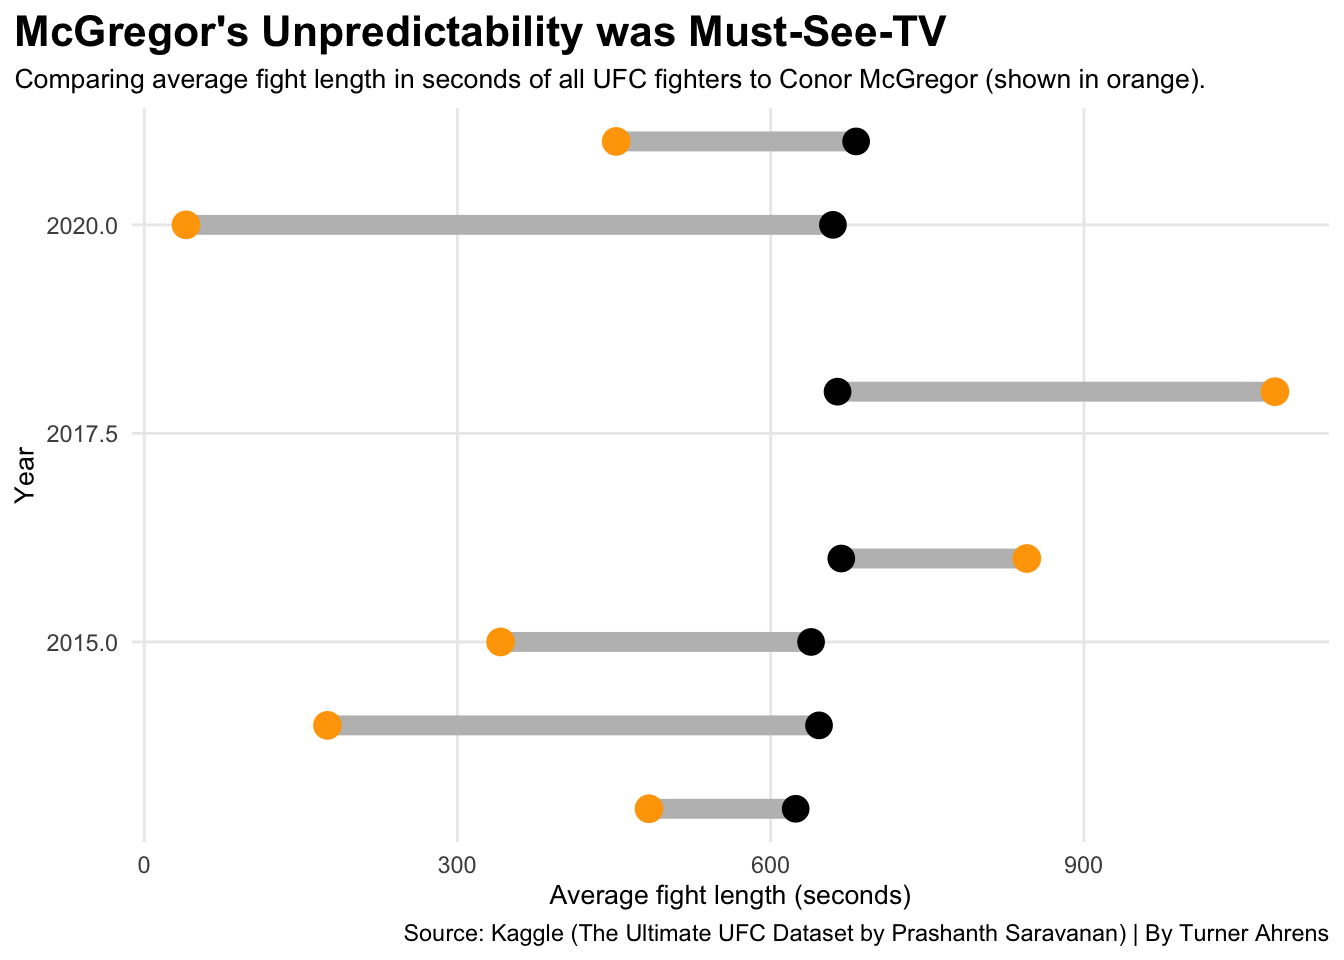
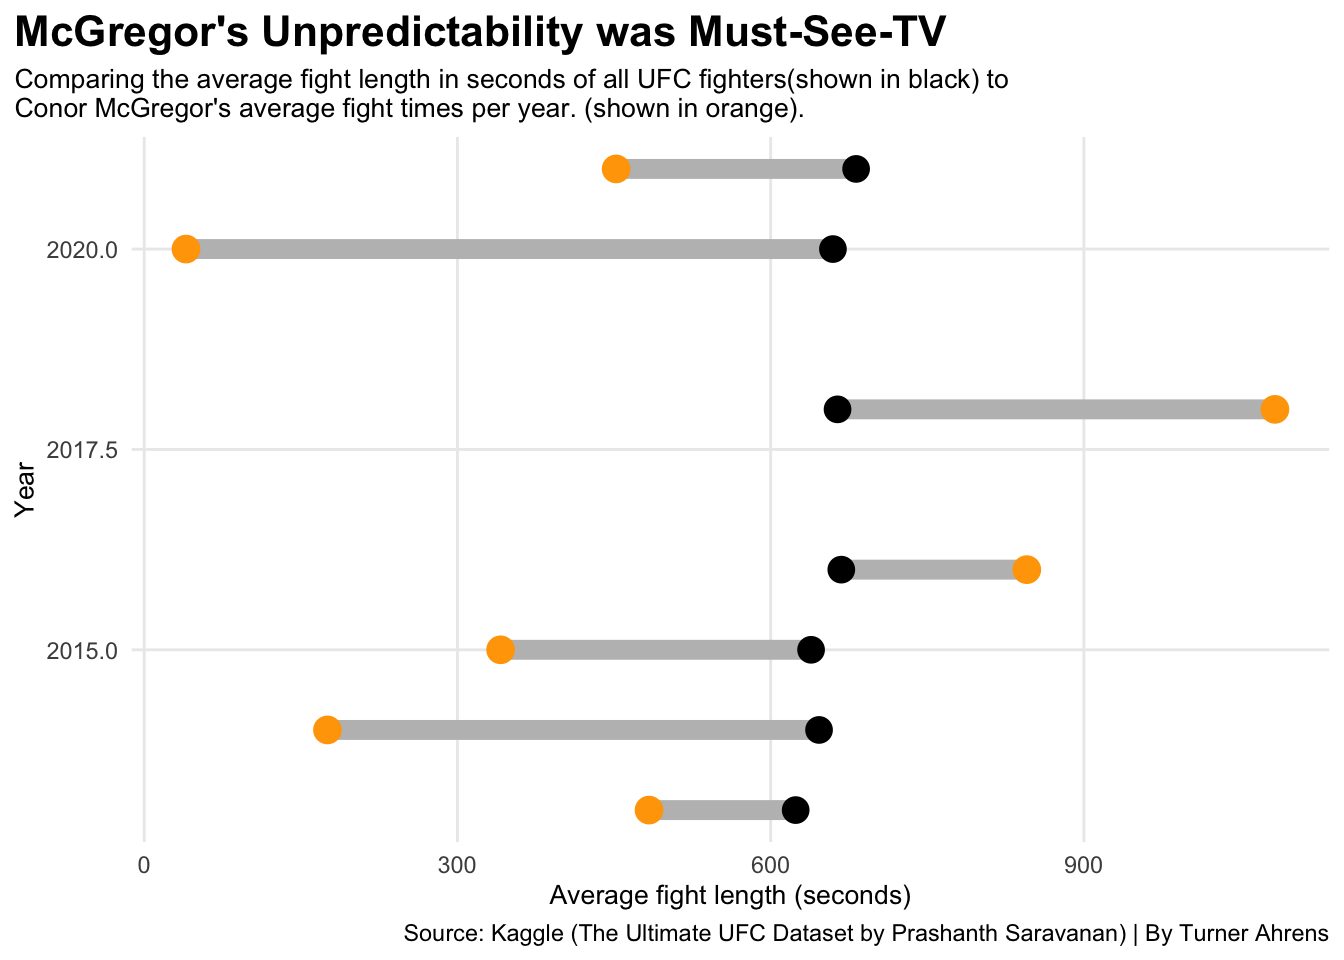
new

diff --git a/posts/conor-mcgregor-ufc/index.html b/posts/conor-mcgregor-ufc/index.html
@@ -195,7 +195,8 @@ pre > code.sourceCode > span > a:first-child::before { text-decoration: underlin
 
 
 
-<p>The “Notorious” Conor McGregor hit the UFC scene in 2013 and forever changed the trajectory of the sport.Through his antics, his showmanship, and pure skill Conor elevated what people expected from their favorite UFC fighter. McGregor’s fight style and the way he marketed himself was something the UFC scene needed. Whether you liked Conor McGregor or not, you watched. His rise was pivotal for the UFC, because the UFC was really struggling with viewership for a long time. Dana White saw Conor McGregor as more than a fighter and helped elevate him into an international star. The biggest effect Conor had on the sport was the major spike in PPV for his events.McGregor was pulling in numbers we have never seen before and was doing it in multiple ways. Even his pre-fight press conferences and weigh-in’s were generating millions of impressions and views on social media.</p>
+<p>The “Notorious” Conor McGregor hit the UFC scene in 2013 and forever changed the trajectory of the sport.Through his antics, his showmanship, and pure skill Conor elevated what people expected from their favorite UFC fighter. McGregor’s fight style and the way he marketed himself was something the UFC scene needed. Whether you liked Conor McGregor or not, you watched. His rise was pivotal for the UFC, because the UFC was really struggling with viewership for a long time. Dana White saw Conor McGregor as more than a fighter and helped elevate him into an international star.</p>
+<p>The biggest effect Conor had on the sport was the major spike in PPV for his events.McGregor was pulling in numbers we have never seen before and was doing it in multiple ways. Even his pre-fight press conferences and weigh-in’s were generating millions of impressions and views on social media.</p>
 <div class="cell">
 <details class="code-fold">
 <summary>Code</summary>
@@ -236,7 +237,7 @@ pre > code.sourceCode > span > a:first-child::before { text-decoration: underlin
 <span id="cb1-35"><a href="#cb1-35" aria-hidden="true" tabindex="-1"></a>  <span class="fu">geom_text_repel</span>(<span class="at">data =</span> bestfight, <span class="fu">aes</span>(<span class="at">x =</span> Date, <span class="at">y =</span> PPV_Sales, <span class="at">label =</span> <span class="st">`</span><span class="at">Event-Name</span><span class="st">`</span>), <span class="at">size =</span> <span class="dv">4</span>)<span class="sc">+</span></span>
 <span id="cb1-36"><a href="#cb1-36" aria-hidden="true" tabindex="-1"></a>  <span class="fu">labs</span>(</span>
 <span id="cb1-37"><a href="#cb1-37" aria-hidden="true" tabindex="-1"></a>    <span class="at">title =</span> <span class="st">"McGregor Events Generated the Highest PPV in UFC History"</span>,</span>
-<span id="cb1-38"><a href="#cb1-38" aria-hidden="true" tabindex="-1"></a>    <span class="at">subtitle =</span> <span class="st">"PPV(pay-per-view) sales in the UFC had been fluctuating for years until McGregor(shown in green) started fighting. McGregor's likeness exploded which lead to a steady growth and an all-time high in PPV. "</span>,</span>
+<span id="cb1-38"><a href="#cb1-38" aria-hidden="true" tabindex="-1"></a>    <span class="at">subtitle =</span> <span class="st">"PPV(pay-per-view) sales in the UFC had been fluctuating for years until McGregor(shown in green) started</span><span class="sc">\n</span><span class="st">fighting. McGregor's likeness exploded which lead to a steady growth and an all-time high in PPV. "</span>,</span>
 <span id="cb1-39"><a href="#cb1-39" aria-hidden="true" tabindex="-1"></a>    <span class="at">x =</span> <span class="st">"Date"</span>,</span>
 <span id="cb1-40"><a href="#cb1-40" aria-hidden="true" tabindex="-1"></a>    <span class="at">y =</span> <span class="st">"PPV Sales($$$)"</span>,</span>
 <span id="cb1-41"><a href="#cb1-41" aria-hidden="true" tabindex="-1"></a>    <span class="at">caption =</span> <span class="st">"Source:Kaggle (The Ultimate UFC Dataset by Prashanth Saravanan) | By Turner Ahrens"</span></span>
@@ -258,7 +259,7 @@ pre > code.sourceCode > span > a:first-child::before { text-decoration: underlin
 </div>
 </div>
 </div>
-<p>Since 2000, the average fight times for all fighters in the UFC have been generally around the same time every year. Something the UFC has never seen before was somebody with the unpredictability of Conor McGregor. You never knew whether he was going to come out and try to end the fight in one round or put on a show for five rounds in a title bout. He had the ability to end a fight in 40 seconds like he did to Donold Cerone or go deep in the 4th round with the best wrestler ever, Khabib Nurmagomadov. It was different, it was entertaining, and it changed how other fighters fought.People often undermine the fighting ability of McGregor because of his personality, but he was one of the most eletric, fast paced fighters in UFC history.</p>
+<p>Since 2000, the average fight times for all fighters in the UFC have been generally around the same time every year. Something the UFC has never seen before was somebody with the unpredictability of Conor McGregor. You never knew whether he was going to come out and try to end the fight in one round or put on a show for five rounds in a title bout. He had the ability to end a fight in 40 seconds like he did to Donold Cerrone or go deep in the 4th round with the best wrestler ever, Khabib Nurmagomedov. It was different, it was entertaining, and it changed how other fighters fought.People often undermine the fighting ability of McGregor because of his personality, but he was one of the most eletric, fast paced fighters in UFC history.</p>
 <div class="cell">
 <details class="code-fold">
 <summary>Code</summary>
@@ -290,7 +291,7 @@ pre > code.sourceCode > span > a:first-child::before { text-decoration: underlin
 <span id="cb2-26"><a href="#cb2-26" aria-hidden="true" tabindex="-1"></a>  <span class="fu">geom_dumbbell</span>(<span class="at">data =</span> fight_time,<span class="fu">aes</span>( <span class="at">y =</span> FightYear,<span class="at">x =</span> <span class="st">`</span><span class="at">All Fighters</span><span class="st">`</span>,<span class="at">xend =</span> McGregor),<span class="at">size =</span> <span class="fl">3.5</span>,<span class="at">colour =</span> <span class="st">"grey"</span>,<span class="at">colour_x =</span> <span class="st">"black"</span>,<span class="at">colour_xend =</span> <span class="st">"orange"</span>) <span class="sc">+</span></span>
 <span id="cb2-27"><a href="#cb2-27" aria-hidden="true" tabindex="-1"></a>  <span class="fu">labs</span>(</span>
 <span id="cb2-28"><a href="#cb2-28" aria-hidden="true" tabindex="-1"></a>    <span class="at">title =</span> <span class="st">"McGregor's Unpredictability was Must-See-TV"</span>,</span>
-<span id="cb2-29"><a href="#cb2-29" aria-hidden="true" tabindex="-1"></a>    <span class="at">subtitle =</span> <span class="st">"Comparing average fight length in seconds of all UFC fighters to Conor McGregor (shown in orange)."</span>,</span>
+<span id="cb2-29"><a href="#cb2-29" aria-hidden="true" tabindex="-1"></a>    <span class="at">subtitle =</span> <span class="st">"Comparing the average fight length in seconds of all UFC fighters(shown in black) to </span><span class="sc">\n</span><span class="st">Conor McGregor's average fight times per year. (shown in orange)."</span>,</span>
 <span id="cb2-30"><a href="#cb2-30" aria-hidden="true" tabindex="-1"></a>    <span class="at">x =</span> <span class="st">"Average fight length (seconds)"</span>,</span>
 <span id="cb2-31"><a href="#cb2-31" aria-hidden="true" tabindex="-1"></a>    <span class="at">y =</span> <span class="st">"Year"</span>,</span>
 <span id="cb2-32"><a href="#cb2-32" aria-hidden="true" tabindex="-1"></a>    <span class="at">caption =</span> <span class="st">"Source: Kaggle (The Ultimate UFC Dataset by Prashanth Saravanan) | By Turner Ahrens"</span></span>
@@ -312,7 +313,7 @@ pre > code.sourceCode > span > a:first-child::before { text-decoration: underlin
 </div>
 </div>
 </div>
-<p>Paragraph 3 Conor McGregor was not just a showman through his fashion and tactics, he was a showman through his fighting style. Before McGregor, fights in the UFC had way less action and was way more about trying to make it to a judges decision. Conor was one of the first fighters to throw that out that window, and go all in on “I’m going to throw more punches than you,” he notoriously told Nate Diaz in a press conference.</p>
+<p>Paragraph 3 Conor McGregor was not just a showman through his fashion and tactics, he was a showman through his fighting style. Before McGregor, fights in the UFC had way less action and were way more about trying to make it to a judges decision. Conor was one of the first fighters to throw that out that window, and go all in on “I’m going to throw more punches than you,” he notoriously told Nate Diaz in a press conference.</p>
 <div class="cell">
 <details class="code-fold">
 <summary>Code</summary>
@@ -372,7 +373,7 @@ pre > code.sourceCode > span > a:first-child::before { text-decoration: underlin
 <span id="cb3-54"><a href="#cb3-54" aria-hidden="true" tabindex="-1"></a>bar_sig <span class="sc">+</span> bar_total <span class="sc">+</span></span>
 <span id="cb3-55"><a href="#cb3-55" aria-hidden="true" tabindex="-1"></a>  <span class="fu">plot_annotation</span>(</span>
 <span id="cb3-56"><a href="#cb3-56" aria-hidden="true" tabindex="-1"></a>    <span class="at">title =</span> <span class="st">"The UFC had never seen a fighter strike like McGregor"</span>,</span>
-<span id="cb3-57"><a href="#cb3-57" aria-hidden="true" tabindex="-1"></a>    <span class="at">subtitle =</span> <span class="st">"Comparing McGregor’sstriking statistics to the UFC fighters before him."</span>,</span>
+<span id="cb3-57"><a href="#cb3-57" aria-hidden="true" tabindex="-1"></a>    <span class="at">subtitle =</span> <span class="st">"Comparing McGregor’s striking statistics to the UFC fighters before him."</span>,</span>
 <span id="cb3-58"><a href="#cb3-58" aria-hidden="true" tabindex="-1"></a>    <span class="at">caption =</span> <span class="st">"Source: Kaggle (The Ultimate UFC Dataset by Prashanth Saravanan) | By Turner Ahrens"</span></span>
 <span id="cb3-59"><a href="#cb3-59" aria-hidden="true" tabindex="-1"></a>  ) <span class="sc">&amp;</span> </span>
 <span id="cb3-60"><a href="#cb3-60" aria-hidden="true" tabindex="-1"></a>  <span class="fu">theme</span>(</span>
@@ -391,6 +392,7 @@ pre > code.sourceCode > span > a:first-child::before { text-decoration: underlin
 </div>
 </div>
 </div>
+<p>In conclusion, Conor McGregor did not just change the climate of the UFC financially but he changed what people expected in a UFC fight and he did it more than any fighter ever.</p>
 
 
 

diff --git a/index.html b/index.html
@@ -209,10 +209,10 @@ window.Quarto = {
 
 <div class="quarto-listing quarto-listing-container-default" id="listing-listing">
 <div class="list quarto-listing-default">
-<div class="quarto-post image-right" data-index="0" data-categories="Q29ub3IlMjBNY0dyZWdvciUyQ1VGQyUyQ1BQVg==" data-listing-date-sort="1764914400000" data-listing-file-modified-sort="1764960890939" data-listing-date-modified-sort="NaN" data-listing-reading-time-sort="6" data-listing-word-count-sort="1162">
+<div class="quarto-post image-right" data-index="0" data-categories="Q29ub3IlMjBNY0dyZWdvciUyQ1VGQyUyQ1BQVg==" data-listing-date-sort="1764914400000" data-listing-file-modified-sort="1764968682628" data-listing-date-modified-sort="NaN" data-listing-reading-time-sort="7" data-listing-word-count-sort="1201">
 <div class="thumbnail"><a href="./posts/conor-mcgregor-ufc/index.html" class="no-external">
 
-<img loading="lazy" src="./posts/conor-mcgregor-ufc" class="thumbnail-image">
+<img loading="lazy" src="./posts/conor-mcgregor-ufc/mcGregor.jpg" class="thumbnail-image">
 
 </a></div>
 <div class="body">
